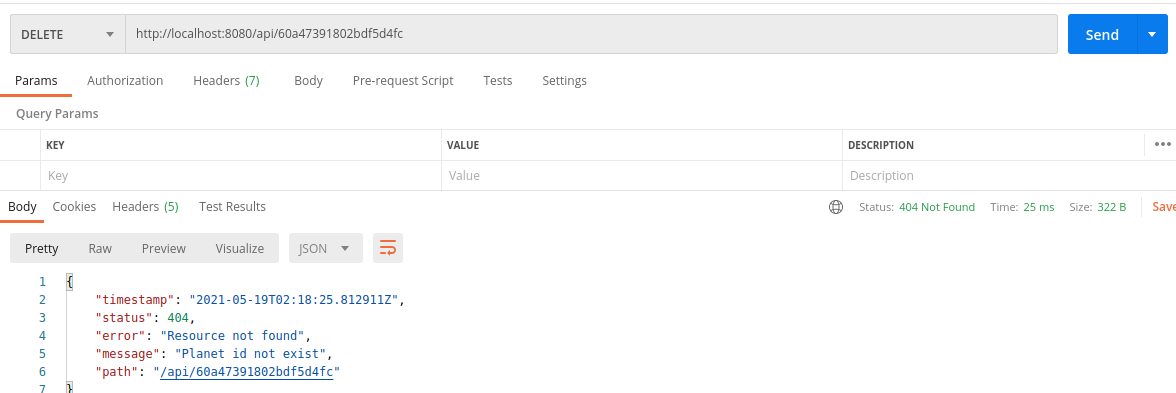
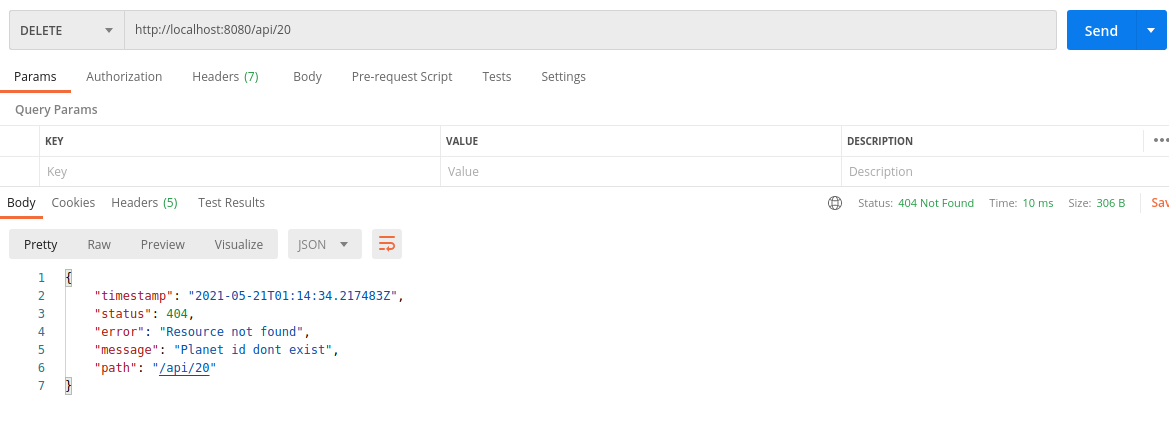
update README

diff --git a/README.md b/README.md
@@ -230,7 +230,7 @@ Retorno esperado com status 204 Not Found
 Retorno esperado caso o id não exista na base com status 404 Not Found
 
 ```
-http://localhost:8080/api/60a47391802bdf5d4fc
+http://localhost:8080/api/20
 ```
 
 ![](https://github.com/andrezasecon/desafio-b2w-starWars/blob/develop/img/deleteerror.png)
